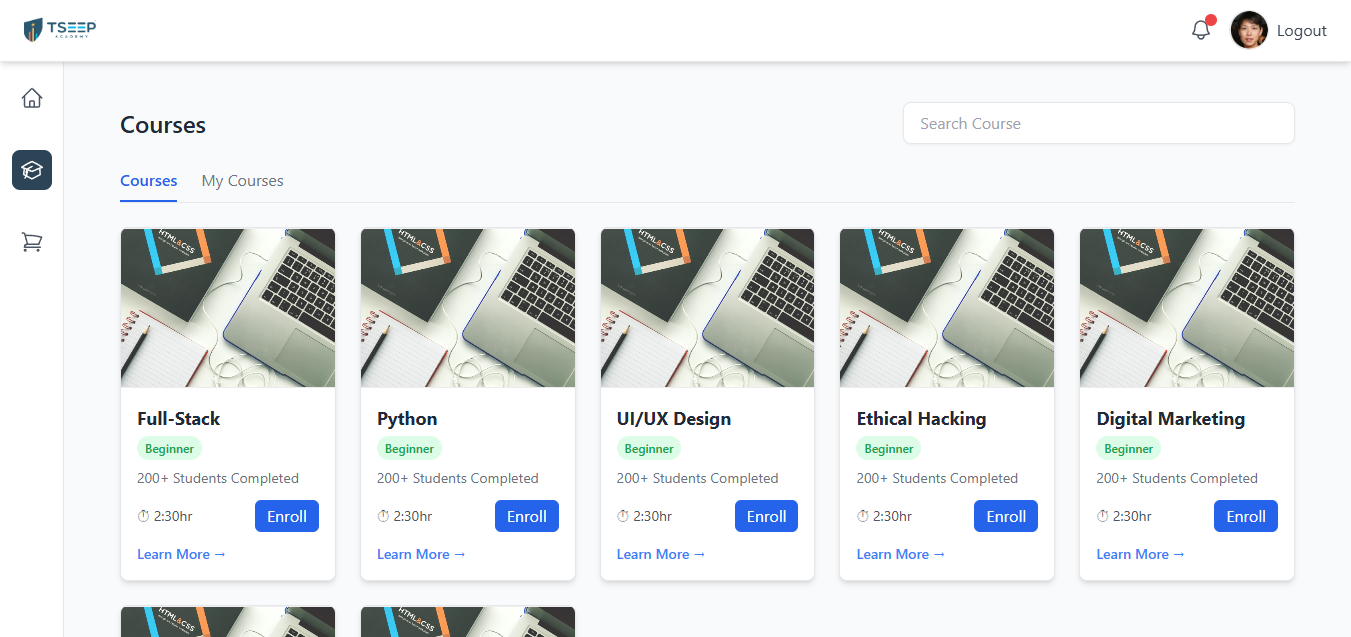
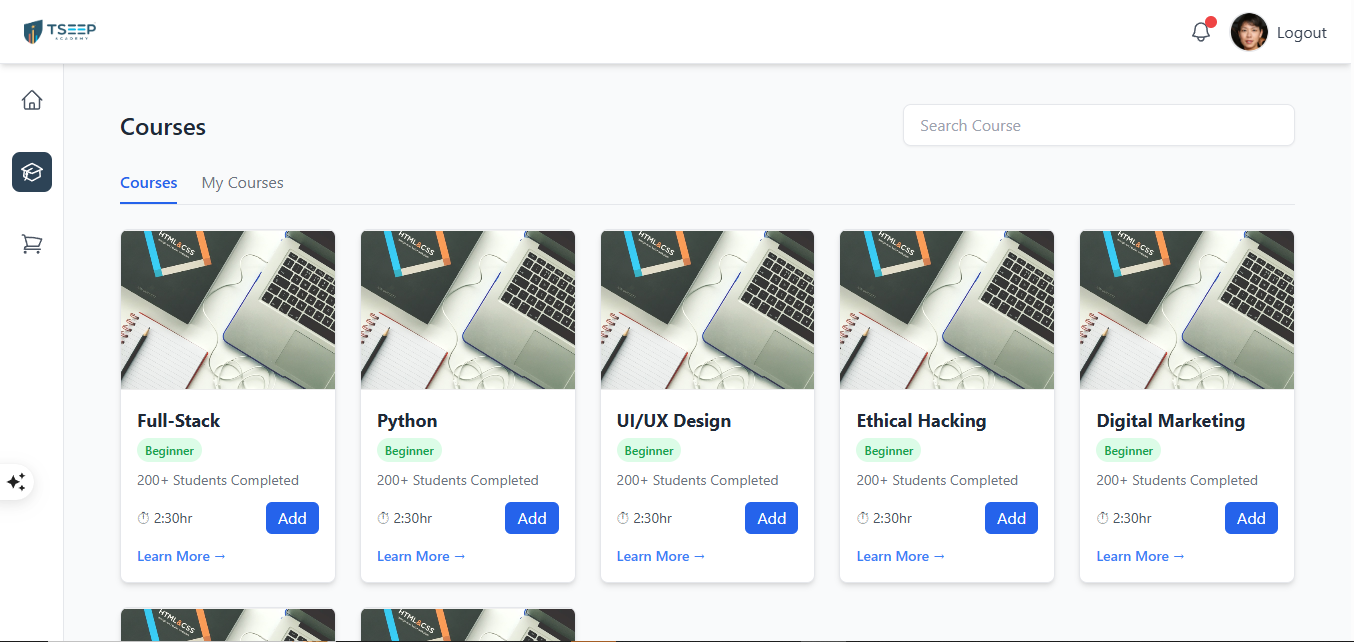
courses Screenshot

diff --git a/front-end/src/pages/Courses.jsx b/front-end/src/pages/Courses.jsx
@@ -111,7 +111,7 @@ export default function Courses() {
                   className="text-white bg-blue-600 px-3 py-1 rounded-md hover:bg-blue-700"
                   onClick={() => enrollCourse(course._id)}
                 >
-                  Enroll
+                  Add
                 </button>
               </div>
 
